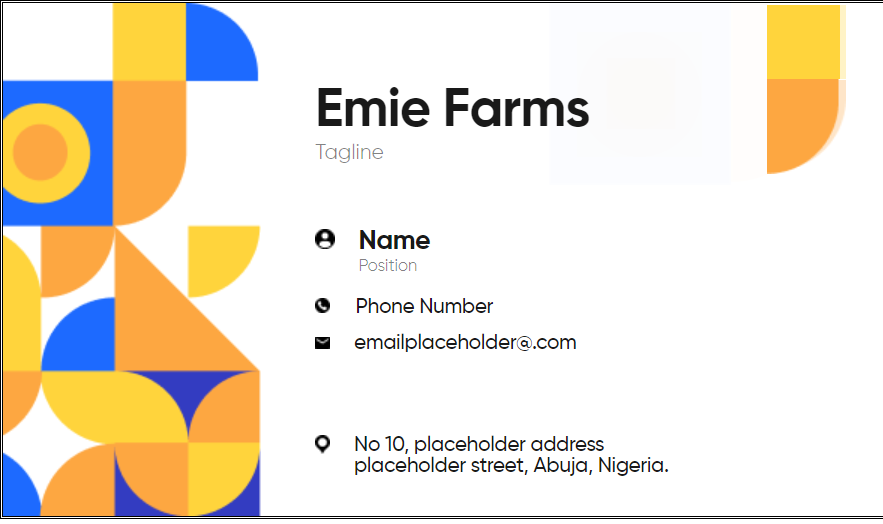
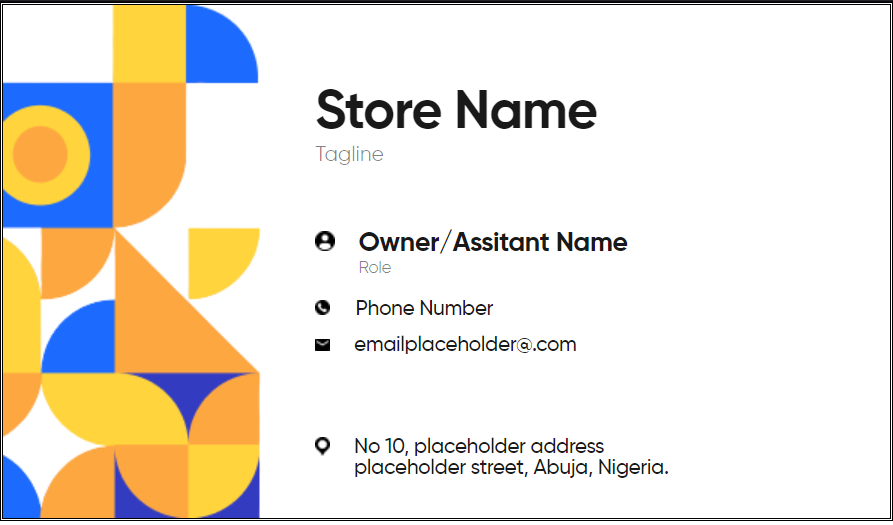
implemented card preview and download

diff --git a/resources/views/backend/stores/show.blade.php b/resources/views/backend/stores/show.blade.php
@@ -60,14 +60,7 @@ $total_interestRevenue += $each_interestRevenue;
     <div class="col-md-12">
     @if(Cookie::get('user_role') == 'store_admin')
         <nav aria-label="breadcrumb" class="float-right mt-1">
-<<<<<<< HEAD
 
-
-            <a data-toggle="modal" data-target="#storeDelete" href="" class="btn btn-danger">
-                Delete &nbsp;<i data-feather="delete"></i>
-            </a>
-=======
->>>>>>> 9ae9434feae20d91dcef77bdf75fd731cb6a56f4
 
         <a data-toggle="modal" data-target="#storeDelete" href="" class="btn btn-danger float-right">
                     Delete
@@ -220,26 +213,7 @@ $total_interestRevenue += $each_interestRevenue;
 <div class="row mb-4">
     <div class="col-lg-4">
         <div class="card">
-            <div class="container" style="margin-top: 10px;">
-            <div class="btn-group float-right">
-                                    <button type="button" class="btn btn-primary dropdown-toggle" data-toggle="dropdown"
-                                        aria-haspopup="true" aria-expanded="false">
-                                        <i class='uil uil-file-alt mr-1'></i>Export
-                                        <i class="icon"><span data-feather="chevron-down"></span></i></button>
-                                    <div class=" dropdown-menu dropdown-menu-right">
-                                        <button id="downloadLink"
-                                            onclick="exportTableToExcel('basic-datatables', '{{ ucfirst($storeData->store_name) }} Transaction Overview')"
-                                            class=" dropdown-item notify-item">
-                                            <i data-feather="file" class="icon-dual icon-xs mr-2"></i>
-                                            <span>EXCEL</span>
-                                        </button>
-                                        <button id="pdf" class="dropdown-item notify-item">
-                                            <i data-feather="file" class="icon-dual icon-xs mr-2"></i>
-                                            <span>PDF</span>
-                                        </button>
-                                    </div>
-                                </div>
-            </div>
+            
             <div class="card-body pl-3 pr-3 padup">                
                 <div class="text-center">
                     <h6>Choose Business Card</h6>
@@ -265,7 +239,7 @@ $total_interestRevenue += $each_interestRevenue;
                         <img class="d-block w-100" src="{{asset('backend/assets/images/card_v1.png')}}" alt="First slide">
                       </div>
                       <div class="carousel-item">
-                        <img class="d-block w-100" src="{{asset('backend/assets/images/card_v1.png')}}" alt="Second slide">
+                        <img class="d-block w-100" src="{{asset('backend/assets/images/card_v2.png')}}" alt="Second slide">
                         
                       </div>
                       <div class="carousel-item">
@@ -288,16 +262,12 @@ $total_interestRevenue += $each_interestRevenue;
                     @csrf
                         <input type="hidden" name="version" class="version">
                     </form>
-                    <form action="{{route('download', $storeData->_id)}}" method="post" id="download-form">
-                        @csrf
-                            <input type="hidden" name="version" class="version">
-                            <input type="hidden" name="type">
-                        </form>
-                    <button 
-                    id="download"
-                     class="btn btn-success mr-2">
-                     <i class="far mr-2 fa-card">
-                    </i>Download</button>
+                    <button
+                    data-toggle="modal" 
+                    data-target="#downloadModal"
+                            class="btn btn-success mr-2">
+                            <i class="far mr-2 fa-card">
+                        </i>Download</button>
                     <button
                     
                     id="preview"
@@ -460,6 +430,48 @@ $total_interestRevenue += $each_interestRevenue;
     </div>
 </div>
 
+<div class="modal fade " tabindex="-1" role="dialog" id="downloadModal">
+    <div class="modal-dialog modal-dialog-centered" role="document">
+      <div class="modal-content">
+        <div class="modal-header">
+          <h5 class="modal-title">Choose Format</h5>
+          <button type="button" class="close" data-dismiss="modal" aria-label="Close">
+            <span aria-hidden="true">&times;</span>
+          </button>
+        </div>
+        <div class="modal-body">
+            <form action="{{route('download', $storeData->_id)}}" method="post" id="download-form">
+                @csrf
+                    <input type="hidden" name="version" class="version">
+                    <input type="hidden" name="type">
+                    <div class="form-check">
+                        <input class="form-check-input" type="radio" name="format" id="exampleRadios1" value="image" checked>
+                        <label class="form-check-label" for="exampleRadios1">
+                          Image Format
+                        </label>
+                      </div>
+                      <div class="form-check">
+                        <input class="form-check-input" type="radio" name="format" id="exampleRadios2" value="pdf">
+                        <label class="form-check-label" for="exampleRadios2">
+                            PDF Format
+                        </label>
+                      </div>
+            </form>
+       
+        </div>
+        <div class="modal-footer">
+            <button 
+            id="download"
+             class="btn btn-success mr-2">
+             <i class="far mr-2 fa-card">
+            </i>Download</button>
+          <button type="button" class="btn btn-secondary" data-dismiss="modal">Close</button>
+        </div>
+      </div>
+    </div>
+  </div>
+
+
 @endsection
 
 @section("javascript")
@@ -554,6 +566,7 @@ $total_interestRevenue += $each_interestRevenue;
         let version = activeSlide.data('version');
         $(".version").val(version);
         $("#download-form").submit();
+        $("#downloadModal").modal('hide');
         // console.log();
     })
 

diff --git a/app/Http/Controllers/BusinessCard.php b/app/Http/Controllers/BusinessCard.php
@@ -21,7 +21,9 @@ class BusinessCard extends Controller
 {
     //
     public function download_card(Request $request, $id){
-        return $id;
+        // return print_r($request->input());
+        $format = $request->input('format');
+        $version = $request->input('version');
         $url = env('API_URL', 'https://dev.api.customerpay.me') . '/store/' . $id;
         try {
             $client = new Client;
@@ -41,18 +43,18 @@ class BusinessCard extends Controller
             $StoreData = json_decode($body)->data->store;
            
             if ($statusCode == 200) {
-              
-                $pdf = PDF::loadView('backend.cards.card_v1',[
+                if($format =="pdf"){
+                     $pdf = PDF::loadView('backend.cards.card_'.$version,[
                     "store_details" =>$StoreData
-                ] );
-                return $pdf->download('business_card.pdf');
-
-                // $pdf = SnappyImage::loadView('backend.cards.card_v1',[
-                //     "store_details" =>$StoreData
-                // ] );
-                // $path = public_path("cards/".uniqid()."img.jpg");
-                // $pdf->save($path);
-                // return $pdf->inline('business_card.jpg');
+                     ] );
+                    return $pdf->download('business_card.pdf');
+                }
+                if($format =="image"){
+                    $image = SnappyImage::loadView('backend.cards.card_'.$version,[
+                        "store_details" =>$StoreData
+                    ] );
+                    return $image->download('business_card.jpg');
+                }
             }
         }catch (RequestException $e) {
             Log::info('Catch error: LoginController - ' . $e->getMessage());
@@ -73,7 +75,6 @@ class BusinessCard extends Controller
             return redirect()->route('store.index', ['response' => []]);
         } catch (\Exception $e) {
             //log error;
-            return $e;
             Log::error('Catch error: StoreController - ' . $e->getMessage());
             return view('errors.500');
         }
@@ -115,6 +116,7 @@ class BusinessCard extends Controller
                 // $path = public_path("cards/".uniqid()."img.jpg");
                 // $pdf->save($path);
                 return $pdf->inline('business_card.jpg');
+               
             }
         }catch (RequestException $e) {
             Log::info('Catch error: LoginController - ' . $e->getMessage());
@@ -135,7 +137,6 @@ class BusinessCard extends Controller
             return redirect()->route('store.index', ['response' => []]);
         } catch (\Exception $e) {
             //log error;
-            return $e;
             Log::error('Catch error: StoreController - ' . $e->getMessage());
             return view('errors.500');
         }

diff --git a/resources/views/backend/cards/card_v2.blade.php b/resources/views/backend/cards/card_v2.blade.php
@@ -24,17 +24,14 @@
 @font-face {
     font-family: Gilroy-Medium;
     src: url("{{public_path('backend/assets/fonts/Gilroy-Medium.ttf')}}");
-}
-.container{
-        background-image: url("{{public_path('backend/assets/images/bg-left.png')}}"), url("{{public_path('backend/assets/images/bg-right.png')}}");
-    } */
+} */
 </style>
 
 <body>
     <div class="container">
         <div class="text">
-            <img src="{{public_path('backend/assets/imgages/bg-left.png')}}" alt="" class="img-left">
-             <img src="{{public_path('backend/assets/imgages/bg-right.png')}}" alt="" class="img-right">
+            <img src="{{public_path('backend/assets/images/bg-left.png')}}" alt="" class="img-left">
+             <img src="{{public_path('backend/assets/images/bg-right.png')}}" alt="" class="img-right">
             <h4 class="hh1">{{$store_details->store_name}}</h4>
             <h4 class="hh2">{{$store_details->tagline}}</h4>
 

diff --git a/config/snappy.php b/config/snappy.php
@@ -35,8 +35,8 @@ return [
     
     'pdf' => [
         'enabled' => true,
-        // 'binary'  => env('WKHTML_PDF_BINARY', '/usr/local/bin/wkhtmltopdf'),
-        'binary' => '"C:\Program Files\wkhtmltopdf\bin\wkhtmltopdf"',
+        'binary'  => env('WKHTML_PDF_BINARY', '/usr/local/bin/wkhtmltopdf'),
+        // 'binary' => '"C:\Program Files\wkhtmltopdf\bin\wkhtmltopdf"',
         'timeout' => false,
         'options' => [
             'images' => true,
@@ -49,8 +49,8 @@ return [
     
     'image' => [
         'enabled' => true,
-        // 'binary'  => env('WKHTML_IMG_BINARY', '/usr/local/bin/wkhtmltoimage'),
-        'binary' => '"C:\Program Files\wkhtmltopdf\bin\wkhtmltoimage"',
+        'binary'  => env('WKHTML_IMG_BINARY', '/usr/local/bin/wkhtmltoimage'),
+        // 'binary' => '"C:\Program Files\wkhtmltopdf\bin\wkhtmltoimage"',
         'timeout' => false,
         'options' => [
             'images' => true,
